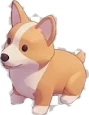
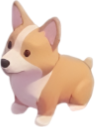
beta: home room uses new transparent asset kit (3 room sizes by rent, wall/floor colours, new furniture sprites)
Claude-Session: https://claude.ai/code/session_015MU3AMTvC7RXatbFz2aXZU

diff --git a/office-beta/js/19p-homedeco.js b/office-beta/js/19p-homedeco.js
@@ -1,94 +1,93 @@
 'use strict';
-/* Office game 1.2.0 (beta) — home room as a decorating game (isometric).
-   Items snap to a half-tile lattice drawn on the room picture. Rules: footprint must be on the floor (wall + floor edge limit it),
-   cannot overlap other items, and its base must touch a wall on at least one side (rug + pets are exempt). Flip = mirror + swap footprint. */
-const HMZ = {
-  room: { o: [212, 119], ca: [14, 8.89], cb: [-14, 6.02], I: 17, J: 15, wi: true, wj: true,
-    cell: (i, j) => (i >= 0 && j >= 0) && ((i < 10 && j < 14) || (i >= 10 && i < 16 && j < 7)), blocked: (i, j) => i >= 11 && i <= 13 && j <= 1 },
-  bath: { o: [463, 140], ca: [13, 6.11], cb: [-13, 6.11], I: 9, J: 11, wi: true, wj: true,
-    cell: (i, j) => i >= 0 && j >= 0 && i < 8 && j < 10 && i >= j, blocked: () => false },
+/* Office game 1.2.0 (beta) — home room as a decorating game (isometric, transparent PNG kit).
+   3 room sizes (by rent). Half-tile... quarter-tile lattice drawn on the room picture. Rules: footprint on the floor, no overlap,
+   base must touch a wall on at least one side (rug + pets exempt). Flip = mirror + swap footprint. Wall / floor colours via blend overlays. */
+const HMR = {"A":{"img":"roomA","w":1347,"h":983,"o":[573,413],"rows":["1111111111111111","1111111111111111","1111111111111111","1111111111111111","111111111111","111111111111","111111111111","111111111111","11111111","11111111","11111111","11111111"],"tile0":12},"B":{"img":"roomB","w":1158,"h":983,"o":[384,413],"rows":["1111111111111111","1111111111111111","1111111111111111","1111111111111111","111111111111","111111111111","111111111111","111111111111"],"tile0":12},"C":{"img":"roomC","w":1107,"h":998,"o":[448,473],"rows":["11111111111111","11111111111111","11111111111111","11111111111111","11111111111111","111111111","111111111","111111111","111111111"],"tile0":9}};
+const HM_C = 47.25, HM_S = 0.577, HM_SCALE = 1.1;
+const HM_NAT = {"deskpc":[223,224],"fridge":[147,244],"bed":[254,225],"washer":[143,189],"counter":[243,212],"ward":[145,226],"sofa":[235,201],"desk":[221,206],"tv":[180,204],"petbed":[252,151],"parrot":[120,160],"corgi":[95,127],"turtle":[173,133],"snake":[166,137],"rabbit":[77,110],"rug":[189,101],"cat":[99,75],"shower":[91,138]};
+const HMI = { // w,d = footprint in quarter-tiles · fn = what "use" does · wall:false = free-standing · flat = lies on floor
+  bed: { n: 'เตียง', w: 3, d: 3, fn: 'sleep', uniq: 1 },
+  fridge: { n: 'ตู้เย็น', w: 2, d: 2, fn: 'fridge', uniq: 1 },
+  counter: { n: 'ครัว/ซิงก์', w: 4, d: 2, fn: 'dishes', uniq: 1 },
+  washer: { n: 'เครื่องซักผ้า', w: 2, d: 2, fn: 'laundry', uniq: 1 },
+  shower: { n: 'ห้องอาบน้ำ', w: 2, d: 2, fn: 'bath', uniq: 1, sw: 150 },
+  deskpc: { n: 'โต๊ะคอม', w: 3, d: 2, fn: 'pc', uniq: 1 },
+  desk: { n: 'โต๊ะ', w: 3, d: 2 },
+  ward: { n: 'ตู้เสื้อผ้า', w: 2, d: 1 },
+  sofa: { n: 'โซฟา', w: 4, d: 2, fn: 'sofa' },
+  tv: { n: 'ทีวี', w: 3, d: 1, fn: 'tv' },
+  petbed: { n: 'ที่นอนสัตว์เลี้ยง', w: 3, d: 3 },
+  rug: { n: 'พรม', w: 3, d: 2, flat: 1, wall: false },
+  corgi: { n: 'หมา', w: 1, d: 1, pet: 'dog', wall: false },
+  cat: { n: 'แมว', w: 1, d: 1, pet: 'cat', wall: false },
+  rabbit: { n: 'กระต่าย', w: 1, d: 1, pet: 'rabbit', wall: false },
+  parrot: { n: 'นกแก้ว', w: 2, d: 1, pet: 'parrot', wall: false },
+  snake: { n: 'งู (ตู้)', w: 2, d: 2, pet: 'snake', wall: false },
+  turtle: { n: 'เต่า (ตู้)', w: 2, d: 2, pet: 'turtle', wall: false },
 };
-const HM_IMG = k => 'img/home/' + k + '.png';
-const HMI = { // w,d = footprint in half-tiles · sw = drawn width px · nh = natural height ratio filled in at runtime
-  bed: { n: 'เตียง', w: 5, d: 3, sw: 118, fn: 'sleep', uniq: 1, nat: [150, 136] },
-  fridge: { n: 'ตู้เย็น', w: 2, d: 2, sw: 60, fn: 'fridge', uniq: 1, nat: [86, 142] },
-  counter: { n: 'ครัว/ซิงก์', w: 6, d: 2, sw: 118, fn: 'dishes', uniq: 1, nat: [153, 138] },
-  washer: { n: 'เครื่องซักผ้า', w: 2, d: 2, sw: 56, fn: 'laundry', uniq: 1, nat: [84, 109] },
-  shower: { n: 'ห้องอาบน้ำ', w: 2, d: 2, sw: 60, fn: 'bath', uniq: 1, nat: [93, 140] },
-  deskpc: { n: 'โต๊ะคอม', w: 6, d: 3, sw: 126, fn: 'pc', uniq: 1, nat: [126, 122] },
-  desk: { n: 'โต๊ะ', w: 6, d: 3, sw: 126, nat: [130, 120] },
-  chair: { n: 'เก้าอี้', w: 2, d: 2, sw: 46, nat: [72, 115] },
-  sofa: { n: 'โซฟา', w: 6, d: 3, sw: 122, fn: 'sofa', nat: [134, 114] },
-  tv: { n: 'ทีวี', w: 4, d: 2, sw: 80, fn: 'tv', nat: [107, 119] },
-  ward1: { n: 'ตู้เสื้อผ้า (สูง)', w: 2, d: 2, sw: 52, nat: [75, 128] },
-  ward2: { n: 'ตู้เสื้อผ้า (บานคู่)', w: 3, d: 2, sw: 68, nat: [87, 128] },
-  ward3: { n: 'ตู้เสื้อผ้า (เปิด)', w: 3, d: 2, sw: 78, nat: [109, 128] },
-  ward4: { n: 'ตู้เสื้อผ้า (ม่วง)', w: 3, d: 2, sw: 70, nat: [92, 128] },
-  ward6: { n: 'ตู้กระจก', w: 4, d: 2, sw: 88, nat: [125, 128] },
-  dresser: { n: 'ตู้ลิ้นชัก', w: 6, d: 2, sw: 108, nat: [132, 127] },
-  petbed: { n: 'ที่นอนสัตว์เลี้ยง', w: 3, d: 3, sw: 84, nat: [147, 89] },
-  cattree: { n: 'คอนแมว', w: 2, d: 2, sw: 60, nat: [128, 120] },
-  cage: { n: 'กรงนก', w: 2, d: 2, sw: 50, nat: [98, 127] },
-  rug: { n: 'พรม', w: 6, d: 4, sw: 124, flat: 1, wall: false, nat: [142, 79] },
-  corgi: { n: 'หมา', w: 2, d: 2, sw: 46, pet: 'dog', wall: false, nat: [91, 117] },
-  cat: { n: 'แมว', w: 2, d: 2, sw: 56, pet: 'cat', wall: false, nat: [125, 93] },
-  rabbit: { n: 'กระต่าย', w: 2, d: 2, sw: 42, pet: 'rabbit', wall: false, nat: [84, 120] },
-  parrot: { n: 'นกแก้ว', w: 2, d: 2, sw: 50, pet: 'parrot', wall: false, nat: [97, 126] },
-  snake: { n: 'งู (ตู้)', w: 4, d: 3, sw: 90, pet: 'snake', wall: false, nat: [145, 117] },
-  turtle: { n: 'เต่า (ตู้)', w: 3, d: 3, sw: 74, pet: 'turtle', wall: false, nat: [129, 98] },
-};
+for (const k in HMI) { const n = HM_NAT[k]; HMI[k].nat = n; HMI[k].sw = HMI[k].sw || Math.round(n[0] * HM_SCALE); }
 const HM_PETKEY = { dog: 'corgi', cat: 'cat', rabbit: 'rabbit', parrot: 'parrot', snake: 'snake', turtle: 'turtle' };
+const HM_WALLC = [null, '#c3d4ff', '#e8a3ff', '#ffbfbf', '#eb9a92', '#ffdb78', '#c1ffb0', '#999999', '#eeeeee'];
+const HM_FLOORC = [null, { c: '#f7c9a6', m: '#ffffff', n: 'พีช' }, { c: '#a5714d', m: '#c0a592', n: 'น้ำตาล' }, { c: '#857a72', m: '#b9b0a8', n: 'เทาเข้ม' }, { c: '#f06a96', m: '#ffffff', n: 'ชมพู' }, { c: '#6fa8d8', m: '#ffffff', n: 'ฟ้า' }, { c: '#9a9a9a', m: '#d5d5d5', n: 'เทา' }, { c: '#ffffff', m: '#ffffff', n: 'ขาว' }];
 HM_PETS.rabbit = { e: '🐇', n: 'กระต่าย', adopt: 900, food: 70 };
 const HM_MAXIT = 26;
-hm.lay = null; hm.sel = null; hm.deco = false; hm.seq = 0; hm.rest = 0; hm.sc = 1;
+hm.lays = null; hm.lay = null; hm.sel = null; hm.deco = false; hm.seq = 0; hm.rest = 0; hm.sc = 1; hm.wc = 0; hm.fc = 0;
 
+const hmKey = () => { const r = (bank.home && bank.home.rent) || 6500; return r < 4000 ? 'C' : r < 8000 ? 'B' : 'A'; };
+const hmRoom = () => HMR[hmKey()];
+const hmCell = (R, i, j) => i >= 0 && j >= 0 && j < R.rows.length && R.rows[j][i] === '1';
 const hmDim = (it, f) => { const d = HMI[it.k]; return f ? [d.d, d.w] : [d.w, d.d]; };
-function hmPt(z, p, q) { const Z = HMZ[z]; return [Z.o[0] + p * Z.ca[0] + q * Z.cb[0], Z.o[1] + p * Z.ca[1] + q * Z.cb[1]]; }
-function hmInv(z, x, y) { const Z = HMZ[z], rx = x - Z.o[0], ry = y - Z.o[1], det = Z.ca[0] * Z.cb[1] - Z.ca[1] * Z.cb[0]; return [(rx * Z.cb[1] - ry * Z.cb[0]) / det, (Z.ca[0] * ry - Z.ca[1] * rx) / det]; }
-function hmOk(k, z, i, j, f, ex) {
-  const Z = HMZ[z], d = HMI[k], [w, dd] = f ? [d.d, d.w] : [d.w, d.d];
-  for (let a = 0; a < w; a++) for (let b = 0; b < dd; b++) if (!Z.cell(i + a, j + b) || Z.blocked(i + a, j + b)) return false;
+function hmPt(p, q) { const R = hmRoom(); return [R.o[0] + (p - q) * HM_C, R.o[1] + (p + q) * HM_C * HM_S]; }
+function hmInv(x, y) { const R = hmRoom(), a = (x - R.o[0]) / HM_C, b = (y - R.o[1]) / (HM_C * HM_S); return [(a + b) / 2, (b - a) / 2]; }
+function hmOk(k, i, j, f, ex) {
+  const R = hmRoom(), d = HMI[k], [w, dd] = f ? [d.d, d.w] : [d.w, d.d];
+  for (let a = 0; a < w; a++) for (let b = 0; b < dd; b++) if (!hmCell(R, i + a, j + b)) return false;
   if (!d.flat) for (const o of hm.lay) {
-    if (o.id === ex || o.z !== z || HMI[o.k].flat) continue; const [ow, od] = hmDim(o, o.f);
+    if (o.id === ex || HMI[o.k].flat) continue; const [ow, od] = hmDim(o, o.f);
     if (i < o.i + ow && o.i < i + w && j < o.j + od && o.j < j + dd) return false;
   }
-  if (d.wall !== false && !((i === 0 && Z.wi) || (j === 0 && Z.wj))) return false;
+  if (d.wall !== false && !(i === 0 || j === 0)) return false;
   return true;
 }
-function hmNearest(k, z0, ti, tj, f, ex) {
-  let best = null;
-  for (const z of z0 === 'room' ? ['room', 'bath'] : ['bath', 'room']) {
-    const Z = HMZ[z];
-    for (let i = 0; i < Z.I; i++) for (let j = 0; j < Z.J; j++) {
-      if (!hmOk(k, z, i, j, f, ex)) continue;
-      const sc = (z === z0 ? (i - ti) ** 2 + (j - tj) ** 2 : 400 + (i - ti) ** 2 + (j - tj) ** 2);
-      if (!best || sc < best.sc) best = { z, i, j, sc };
-    }
+function hmNearest(k, ti, tj, f, ex) {
+  const R = hmRoom(); let best = null;
+  for (let j = 0; j < R.rows.length; j++) for (let i = 0; i < R.rows[0].length; i++) {
+    if (!hmOk(k, i, j, f, ex)) continue; const sc = (i - ti) ** 2 + (j - tj) ** 2; if (!best || sc < best.sc) best = { i, j, sc };
   }
   return best;
 }
-function hmAdd(k, z, i, j, f) { const b = hmNearest(k, z, i, j, f || 0, -1); if (!b) return null; const it = { id: ++hm.seq, k, z: b.z, i: b.i, j: b.j, f: f || 0 }; hm.lay.push(it); return it; }
+function hmAdd(k, i, j, f) { const b = hmNearest(k, i, j, f || 0, -1); if (!b) return null; const it = { id: ++hm.seq, k, i: b.i, j: b.j, f: f || 0 }; hm.lay.push(it); return it; }
 function hmEnsure() {
-  if (!hm.lay) {
-    hm.lay = []; hm.seq = 0;
-    hmAdd('bed', 'room', 0, 0); hmAdd('counter', 'room', 5, 0); hmAdd('fridge', 'room', 14, 0); hmAdd('deskpc', 'room', 0, 3, 1); hmAdd('washer', 'bath', 4, 0); hmAdd('shower', 'bath', 6, 0);
+  const key = hmKey(); if (!hm.lays) hm.lays = {};
+  if (!hm.lays[key]) {
+    hm.lays[key] = []; hm.lay = hm.lays[key]; const t = HMR[key].tile0;
+    hmAdd('bed', 0, 0); hmAdd('deskpc', 0, 3, 1); hmAdd('washer', t, 0); hmAdd('shower', t + 2, 0); hmAdd('fridge', t - 2, 0); hmAdd('counter', t - 6, 0);
   }
-  for (const pk in hm.pets) if (hm.pets[pk].have) { const k = HM_PETKEY[pk]; if (k && !hm.lay.some(o => o.k === k)) hmAdd(k, 'room', 4, 8); }
+  hm.lay = hm.lays[key];
+  for (const pk in hm.pets) if (hm.pets[pk].have) { const k = HM_PETKEY[pk]; if (k && !hm.lay.some(o => o.k === k)) hmAdd(k, 5, 5); }
 }
-const hmAnchor = it => { const [w, d] = hmDim(it, it.f); return hmPt(it.z, it.i + w, it.j + d); };
+const hmAnchor = it => { const [w, d] = hmDim(it, it.f); return hmPt(it.i + w, it.j + d); };
+const hmSpr = (it) => { const d = HMI[it.k], [x, y] = hmAnchor(it), sw = d.sw, sh = sw * d.nat[1] / d.nat[0]; return { x: x - sw / 2, y: y - sh + 3, sw }; };
 
+function hmTint() {
+  const R = hmRoom(), m = n => `-webkit-mask-image:url(img/home/${R.img}_${n}.png);mask-image:url(img/home/${R.img}_${n}.png)`;
+  let h = ''; const wc = HM_WALLC[hm.wc], fc = HM_FLOORC[hm.fc];
+  if (wc) h += `<div class="hmtint" style="${m('wall')};background:${wc};mix-blend-mode:color"></div>`;
+  if (fc) h += `<div class="hmtint" style="${m('floor')};background:${fc.c};mix-blend-mode:color"></div>` + (fc.m !== '#ffffff' ? `<div class="hmtint" style="${m('floor')};background:${fc.m};mix-blend-mode:multiply"></div>` : '');
+  return h;
+}
 function hmSceneHtml() {
-  hmEnsure(); const items = [...hm.lay].sort((a, b) => (HMI[b.k].flat ? 1 : 0) - (HMI[a.k].flat ? 1 : 0) || hmAnchor(a)[1] - hmAnchor(b)[1] + (a.z === 'bath' ? 0 : 0));
+  hmEnsure(); const R = hmRoom(), items = [...hm.lay].sort((a, b) => (HMI[b.k].flat ? 1 : 0) - (HMI[a.k].flat ? 1 : 0) || hmAnchor(a)[1] - hmAnchor(b)[1]);
   const day = hmToday();
-  const els = items.map((it, n) => {
-    const d = HMI[it.k], [x, y] = hmAnchor(it), sw = d.sw, sh = sw * d.nat[1] / d.nat[0];
+  const els = items.map(it => {
+    const d = HMI[it.k], s = hmSpr(it), y = hmAnchor(it)[1];
     const bd = it.k === 'counter' && hm.dirtyD >= 6 ? '<i class="hmbd">🍽</i>' : it.k === 'washer' && hm.dirtyL >= 2 ? '<i class="hmbd">🧺</i>' : (d.pet && hm.pets[d.pet] && hm.pets[d.pet].fed < day ? '<i class="hmbd">💭</i>' : '');
-    return `<div class="hmit${hm.sel === it.id ? ' sel' : ''}${d.flat ? ' flat' : ''}" data-it="${it.id}" style="left:${(x - sw / 2).toFixed(1)}px;top:${(y - sh + 2).toFixed(1)}px;width:${sw}px;z-index:${d.flat ? 1 : 10 + Math.round(y)}"><img src="${HM_IMG(it.k)}" alt="" draggable="false" style="${it.f ? 'transform:scaleX(-1)' : ''}">${bd}</div>`;
+    return `<div class="hmit${hm.sel === it.id ? ' sel' : ''}${d.flat ? ' flat' : ''}" data-it="${it.id}" style="left:${s.x.toFixed(1)}px;top:${s.y.toFixed(1)}px;width:${s.sw}px;z-index:${d.flat ? 1 : 10 + Math.round(y)}"><img src="img/home/${it.k}.png" alt="" draggable="false" style="${it.f ? 'transform:scaleX(-1)' : ''}">${bd}</div>`;
   }).join('');
-  return `<div class="hmscene" id="hmScene"><img class="hmroomimg" src="${HM_IMG('room')}" alt="" draggable="false">${els}</div>`;
+  return `<div class="hmscene" id="hmScene" style="width:${R.w}px;height:${R.h}px"><img class="hmroomimg" src="img/home/${R.img}.png" alt="" draggable="false" style="width:${R.w}px;height:${R.h}px">${hmTint()}${els}</div>`;
 }
 function hmBarHtml() {
-  const it = hm.lay.find(o => o.id === hm.sel); if (!it) return `<p class="soft hmtip">💡 แตะของเพื่อเลือก · ลากเพื่อย้าย (ของจะชิดขอบกำแพง) · กด “🛋 ตกแต่ง” เพื่อเพิ่มเฟอร์นิเจอร์${hm.msg ? `<br><b>${esc(hm.msg)}</b>` : ''}</p>`;
+  const it = hm.lay.find(o => o.id === hm.sel); if (!it) return `<p class="soft hmtip">💡 แตะของเพื่อเลือก · ลากเพื่อย้าย (ของจะชิดขอบกำแพง) · กด “🛋 ตกแต่ง” เพื่อเพิ่มเฟอร์นิเจอร์/เปลี่ยนสี${hm.msg ? `<br><b>${esc(hm.msg)}</b>` : ''}</p>`;
   const d = HMI[it.k], fnl = { sleep: '😴 นอน', fridge: '🧊 เปิดตู้เย็น', dishes: '🍽 ล้างจาน', laundry: '🧺 ซักผ้า', bath: '🚿 อาบน้ำ', pc: '🖥 นั่งคอม', sofa: '🛋 นั่งพัก', tv: '📺 ดูทีวี' }[d.fn] || (d.pet ? '🥣 ให้อาหาร' : '');
   return `<div class="hmbar"><b>${esc(d.n)}</b>${fnl ? `<button class="btn2" data-hm="use">${fnl}</button>` : ''}<button class="btn2 ghost" data-hm="flip">🔄 พลิก</button>${d.pet ? '' : '<button class="btn2 ghost" data-hm="store">📦 เก็บ</button>'}</div>${hm.msg ? `<p class="soft hmtip"><b>${esc(hm.msg)}</b></p>` : ''}`;
 }
@@ -96,21 +95,23 @@ function hmDecoHtml() {
   const have = k => hm.lay.filter(o => o.k === k).length;
   const list = Object.keys(HMI).filter(k => !HMI[k].pet || (hm.pets[HMI[k].pet] && hm.pets[HMI[k].pet].have)).map(k => {
     const d = HMI[k], no = (d.uniq || d.pet) && have(k) >= 1;
-    return `<button class="hmcat${no ? ' off' : ''}" data-hm="add" data-k="${k}"${no ? ' disabled' : ''}><img src="${HM_IMG(k)}" alt=""><small>${esc(d.n)}${no ? ' · วางแล้ว' : ''}</small></button>`;
+    return `<button class="hmcat${no ? ' off' : ''}" data-hm="add" data-k="${k}"${no ? ' disabled' : ''}><img src="img/home/${k}.png" alt=""><small>${esc(d.n)}${no ? ' · วางแล้ว' : ''}</small></button>`;
   }).join('');
-  return `<div class="hmdeco"><div class="hmdt">🛋 เฟอร์นิเจอร์ <small>(${hm.lay.length}/${HM_MAXIT} ชิ้น · แตะเพื่อวางในห้อง)</small></div><div class="hmcats">${list}</div></div>`;
+  const wd = HM_WALLC.map((c, n) => `<button class="hmdot${hm.wc === n ? ' on' : ''}" data-hm="wc" data-n="${n}" style="background:${c || 'repeating-linear-gradient(45deg,#ddd 0 4px,#fff 4px 8px)'}" title="${c ? 'สีผนัง' : 'สีเดิม'}"></button>`).join('');
+  const fd = HM_FLOORC.map((c, n) => `<button class="hmdot${hm.fc === n ? ' on' : ''}" data-hm="fc" data-n="${n}" style="background:${c ? c.c : 'repeating-linear-gradient(45deg,#e9bd94 0 4px,#f4d6b8 4px 8px)'}" title="${c ? c.n : 'พื้นเดิม'}"></button>`).join('');
+  return `<div class="hmdeco"><div class="hmcol"><span>🎨 ผนัง</span>${wd}</div><div class="hmcol"><span>🪵 พื้น</span>${fd}</div><div class="hmdt">🛋 เฟอร์นิเจอร์ <small>(${hm.lay.length}/${HM_MAXIT} ชิ้น · แตะเพื่อวางในห้อง)</small></div><div class="hmcats">${list}</div></div>`;
 }
 hmRoomHtml = function (st, jl) {
-  const home = bank.home; hmEnsure();
+  const home = bank.home; hmEnsure(); const R = hmRoom();
   const conf = hm.ask === 'sleep' ? `<div class="hmask in"><div class="hmbig">😴</div><h3>นอนพักเลยไหม?</h3><p>ข้ามไปเช้า 07:00 ของวันถัดไป · ความเครียดลด 80% (จาก ${st} เหลือ ~${Math.round(st * .2)})</p><p class="soft">ระหว่างข้ามวัน ค่าข้าว/บิลรายวันจะคิดตามปกติ · สัตว์เลี้ยงที่ยังไม่ได้กินจะเครียดนะ</p><div class="hmrow"><button class="btn2" data-hm="sleepok">💤 ยืนยันนอน</button><button class="btn2 ghost" data-hm="x2">ยังไม่นอน</button></div></div>` : '';
   return `<button class="hmx" data-hm="close">✕</button>
   <div class="hmhead"><div><h3>🏠 ${esc(home.name)}</h3><small>ค่าเช่า ${baht(home.rent)} บาท/เดือน · ห่างออฟฟิศ ${home.km} กม.</small></div><div class="hmst" data-lv="${st >= 80 ? 'bad' : st >= 50 ? 'mid' : 'ok'}">${st >= 80 ? '🤯' : st >= 50 ? '😣' : '🙂'} เครียด ${st}</div></div>
-  <div class="hmstage dec" id="hmStage">${hmSceneHtml()}${conf}</div>${hmBarHtml()}${hm.deco ? hmDecoHtml() : ''}
+  <div class="hmstage dec" id="hmStage" style="aspect-ratio:${R.w}/${R.h}">${hmSceneHtml()}${conf}</div>${hmBarHtml()}${hm.deco ? hmDecoHtml() : ''}
   <div class="hmrow"><button class="btn2${hm.deco ? '' : ' ghost'}" data-hm="deco">🛋 ตกแต่ง${hm.deco ? ' (ปิด)' : ''}</button><button class="btn2" data-hm="chores">🧹 ทำงานบ้าน${hm.dirtyD >= 6 || hm.dirtyL >= 2 ? ' ⚠' : ''}</button>${jl ? '' : `<button class="btn2 ghost" data-hm="toWork">🚌 ไปออฟฟิศ (${baht(hmFare())}฿)</button>`}</div>`;
 };
 const _hmRenderDeco = hmRender;
 hmRender = function () { _hmRenderDeco(); try { hmFit(); } catch (e) { console.error(e); } };
-function hmFit() { const st = $('hmStage'), sc = $('hmScene'); if (!st || !sc) return; hm.sc = st.clientWidth / 572; sc.style.transform = `scale(${hm.sc})`; }
+function hmFit() { const st = $('hmStage'), sc = $('hmScene'); if (!st || !sc) return; hm.sc = st.clientWidth / hmRoom().w; sc.style.transform = `scale(${hm.sc})`; }
 window.addEventListener('resize', () => { if (hm.on) hmFit(); });
 
 /* ---------- use ---------- */
@@ -143,10 +144,12 @@ hmClick = function (e) {
     if (b) {
       const a = b.dataset.hm, it = hm.lay && hm.lay.find(o => o.id === hm.sel);
       if (a === 'deco') { hm.deco = !hm.deco; hmRender(); return; }
-      if (a === 'add') { const k = b.dataset.k; if (hm.lay.length >= HM_MAXIT) { hm.msg = 'ห้องเต็มแล้ว เก็บของออกก่อนนะ'; hmRender(); return; } const d = HMI[k], f = hmAdd(k, d.fn === 'bath' || d.fn === 'laundry' ? 'bath' : 'room', 3, 8, 0); if (!f) { hm.msg = 'ไม่มีที่ว่างพอสำหรับชิ้นนี้'; S.toast('ไม่มีที่ว่างพอวางชิ้นนี้', 1.6); hmRender(); return; } hm.sel = f.id; hm.msg = ''; S.tone(600, 800, .05, .05); hmDecoDone(); hmRender(); return; }
+      if (a === 'wc') { hm.wc = +b.dataset.n; hmDecoDone(); hmRender(); return; }
+      if (a === 'fc') { hm.fc = +b.dataset.n; hmDecoDone(); hmRender(); return; }
+      if (a === 'add') { const k = b.dataset.k; if (hm.lay.length >= HM_MAXIT) { hm.msg = 'ห้องเต็มแล้ว เก็บของออกก่อนนะ'; hmRender(); return; } const d = HMI[k], t0 = hmRoom().tile0, f = d.fn === 'bath' || d.fn === 'laundry' ? hmAdd(k, t0, 0, 0) : hmAdd(k, 3, 6, 0); if (!f) { hm.msg = 'ไม่มีที่ว่างพอสำหรับชิ้นนี้'; S.toast('ไม่มีที่ว่างพอวางชิ้นนี้', 1.6); hmRender(); return; } hm.sel = f.id; hm.msg = ''; S.tone(600, 800, .05, .05); hmDecoDone(); hmRender(); return; }
       if (a === 'use' && it) { hmUse(it); return; }
-      if (a === 'flip' && it) { const nf = it.f ? 0 : 1, [w, d] = hmDim(it, nf), bst = hmNearest(it.k, it.z, it.i, it.j, nf, it.id); if (!bst) { hm.msg = 'พลิกไม่ได้ ไม่มีที่ว่างพอ'; hmRender(); return; } it.f = nf; it.z = bst.z; it.i = bst.i; it.j = bst.j; hm.msg = ''; S.tone(500, 700, .04, .05); hmDecoDone(); hmRender(); return; }
-      if (a === 'store' && it) { hm.lay = hm.lay.filter(o => o.id !== it.id); hm.sel = null; hm.msg = `เก็บ${HMI[it.k].n}ใส่กล่องแล้ว (เอากลับมาวางได้จาก “ตกแต่ง”)`; hmRender(); return; }
+      if (a === 'flip' && it) { const nf = it.f ? 0 : 1, bst = hmNearest(it.k, it.i, it.j, nf, it.id); if (!bst) { hm.msg = 'พลิกไม่ได้ ไม่มีที่ว่างพอ'; hmRender(); return; } it.f = nf; it.i = bst.i; it.j = bst.j; hm.msg = ''; S.tone(500, 700, .04, .05); hmDecoDone(); hmRender(); return; }
+      if (a === 'store' && it) { hm.lays[hmKey()] = hm.lay = hm.lay.filter(o => o.id !== it.id); hm.sel = null; hm.msg = `เก็บ${HMI[it.k].n}ใส่กล่องแล้ว (เอากลับมาวางได้จาก “ตกแต่ง”)`; hmRender(); return; }
     } else {
       const el = t.closest('[data-it]');
       if (el) { const id = +el.dataset.it; hm.sel = hm.sel === id ? null : id; hm.msg = ''; hmRender(); return; }
@@ -166,29 +169,27 @@ hmDown = function (e) {
   const mv = ev => {
     if (!g.moved && Math.hypot(ev.clientX - x0, ev.clientY - y0) < 8) return;
     if (!g.moved) { g.moved = true; el.classList.add('drag'); hm.sel = it.id; }
-    const tx = px(ev.clientX) - dx0, ty = py(ev.clientY) - dy0, [w, d] = hmDim(it, it.f);
-    let bz = null, bi = 0, bj = 0, bd = 1e9;
-    for (const z in HMZ) { const [p, q] = hmInv(z, tx, ty), i = p - w, j = q - d, Z = HMZ[z]; const dd = Math.max(0, -i, i - Z.I, -j, j - Z.J); if (dd < bd) { bd = dd; bz = z; bi = i; bj = j; } }
-    const b = hmNearest(it.k, bz, bi, bj, it.f, it.id); if (!b) return; g.best = b;
-    const d0 = HMI[it.k], [X, Y] = hmPt(b.z, b.i + w, b.j + d), sw = d0.sw, sh = sw * d0.nat[1] / d0.nat[0];
-    el.style.left = (X - sw / 2) + 'px'; el.style.top = (Y - sh + 2) + 'px'; el.style.zIndex = 400;
+    const tx = px(ev.clientX) - dx0, ty = py(ev.clientY) - dy0, [w, d] = hmDim(it, it.f), [p, q] = hmInv(tx, ty);
+    const b = hmNearest(it.k, p - w, q - d, it.f, it.id); if (!b) return; g.best = b;
+    const [X, Y] = hmPt(b.i + w, b.j + d), d0 = HMI[it.k], sw = d0.sw, sh = sw * d0.nat[1] / d0.nat[0];
+    el.style.left = (X - sw / 2) + 'px'; el.style.top = (Y - sh + 3) + 'px'; el.style.zIndex = 4000;
   };
   const up = () => {
     document.removeEventListener('pointermove', mv); document.removeEventListener('pointerup', up); document.removeEventListener('pointercancel', up);
-    if (g.moved && g.best) { it.z = g.best.z; it.i = g.best.i; it.j = g.best.j; hm.msg = ''; S.tone(520, 380, .06, .05); hmDecoDone(); }
+    if (g.moved && g.best) { it.i = g.best.i; it.j = g.best.j; hm.msg = ''; S.tone(520, 380, .06, .05); hmDecoDone(); }
     if (g.moved) setTimeout(() => { hm.dg = null; hmRender(); }, 0); else hm.dg = null;
   };
   document.addEventListener('pointermove', mv); document.addEventListener('pointerup', up); document.addEventListener('pointercancel', up);
 };
 
 /* ---------- save ---------- */
-const _snapDeco = snapshot; snapshot = () => { const s = _snapDeco(); if (s.hm) { s.hm.lay = hm.lay; s.hm.seq = hm.seq; s.hm.rest = hm.rest; } return s; };
+const _snapDeco = snapshot; snapshot = () => { const s = _snapDeco(); if (s.hm) { s.hm.lays = hm.lays; s.hm.seq = hm.seq; s.hm.rest = hm.rest; s.hm.wc = hm.wc; s.hm.fc = hm.fc; delete s.hm.lay; } return s; };
 const _loadDeco = loadGame;
 loadGame = function () {
   const ok = _loadDeco();
-  if (ok) { try { const s = JSON.parse(localStorage.getItem(SAVE_KEY) || 'null'); hm.lay = s && s.hm && Array.isArray(s.hm.lay) ? s.hm.lay.filter(o => HMI[o.k]) : null; hm.seq = (s && s.hm && s.hm.seq) || (hm.lay ? hm.lay.reduce((m, o) => Math.max(m, o.id), 0) : 0); hm.rest = (s && s.hm && s.hm.rest) || 0; } catch (e) {} }
+  if (ok) { try { const s = JSON.parse(localStorage.getItem(SAVE_KEY) || 'null'), h = s && s.hm || {}; hm.lays = h.lays || null; hm.lay = null; hm.seq = h.seq || 0; hm.rest = h.rest || 0; hm.wc = h.wc || 0; hm.fc = h.fc || 0; if (hm.lays) for (const k in hm.lays) { hm.lays[k] = hm.lays[k].filter(o => HMI[o.k]); hm.seq = Math.max(hm.seq, ...hm.lays[k].map(o => o.id), 0); } } catch (e) {} }
   return ok;
 };
 
 /* ---------- mission ---------- */
-try { const T = { id: 'n12deco', t: '✨ [ใหม่] ที่ห้องพัก กด “🛋 ตกแต่ง” เพิ่มเฟอร์นิเจอร์ แล้วลาก/พลิกให้ชิดกำแพง' }; if (!NEW_TASKS.some(x => x.id === T.id)) NEW_TASKS.push(T); if (typeof TASKS !== 'undefined' && TASKS.some(x => x.id === 'n12cam') && !TASKS.some(x => x.id === T.id)) { TASKS.push(T); renderTasks(); } } catch (e) {}
+try { const T = { id: 'n12deco', t: '✨ [ใหม่] ที่ห้องพัก กด “🛋 ตกแต่ง” เพิ่มเฟอร์นิเจอร์/เปลี่ยนสี แล้วลาก/พลิกให้ชิดกำแพง' }; if (!NEW_TASKS.some(x => x.id === T.id)) NEW_TASKS.push(T); if (typeof TASKS !== 'undefined' && TASKS.some(x => x.id === 'n12cam') && !TASKS.some(x => x.id === T.id)) { TASKS.push(T); renderTasks(); } } catch (e) {}

diff --git a/office-beta/office.css b/office-beta/office.css
@@ -877,9 +877,9 @@ body[data-career="jl"] [data-sl="boss"]{display:none}
 .fdit{width:auto;height:auto;cursor:grab}.fdit img{display:block;height:74px;width:auto;max-width:130px;object-fit:contain;pointer-events:none}
 .fdit i{position:absolute;left:0;top:-12px;background:#ffe08a;color:#7a4b00;border-radius:8px;font:500 11px var(--font);font-style:normal;padding:1px 7px;white-space:nowrap}
 /* home room decorating (isometric) */
-.hmstage.dec{aspect-ratio:572/312;background:radial-gradient(circle at 50% 40%,#fff7ee,#eadcff);border-color:#cdbdf2}
-.hmscene{position:absolute;left:0;top:6px;width:572px;height:301px;transform-origin:0 0}
-.hmroomimg{position:absolute;left:0;top:0;width:572px;height:301px;pointer-events:none;user-select:none}
+.hmstage.dec{background:radial-gradient(circle at 50% 40%,#fff7ee,#eadcff);border-color:#cdbdf2;overflow:hidden}
+.hmscene{position:absolute;left:0;top:0;transform-origin:0 0;isolation:isolate}
+.hmroomimg{position:absolute;left:0;top:0;pointer-events:none;user-select:none}.hmtint{position:absolute;left:0;top:0;width:100%;height:100%;pointer-events:none;-webkit-mask-size:100% 100%;mask-size:100% 100%}
 .hmit{position:absolute;cursor:grab;touch-action:none;user-select:none}.hmit img{display:block;width:100%;height:auto;pointer-events:none}
 .hmit.flat{cursor:grab}.hmit.sel img{filter:drop-shadow(0 0 2px #8a6df0) drop-shadow(0 0 5px #8a6df0)}.hmit.drag{opacity:.88;cursor:grabbing}
 .hmbd{position:absolute;right:-4px;top:-8px;font-style:normal;font-size:18px;pointer-events:none;filter:drop-shadow(0 1px 2px #0006)}
@@ -888,3 +888,5 @@ body[data-career="jl"] [data-sl="boss"]{display:none}
 .hmcats{display:grid;grid-template-columns:repeat(auto-fill,minmax(86px,1fr));gap:8px;max-height:210px;overflow:auto}
 .hmcat{border:2px solid #eadfcf;background:#fffdf8;border-radius:12px;padding:6px 4px;display:flex;flex-direction:column;align-items:center;gap:3px;cursor:pointer;font-family:inherit}
 .hmcat img{height:54px;width:auto;max-width:76px;object-fit:contain}.hmcat small{font-size:11px;text-align:center;color:#5b4630}.hmcat.off{opacity:.45;cursor:default}
+
+.hmcol{display:flex;align-items:center;gap:6px;flex-wrap:wrap;margin-bottom:8px;font-size:13px}.hmcol span{min-width:62px}.hmdot{width:26px;height:26px;border-radius:50%;border:2px solid #fff;box-shadow:0 0 0 1.5px #d8c9b2;cursor:pointer;padding:0}.hmdot.on{box-shadow:0 0 0 3px #8a6df0}

diff --git a/office-beta/index.html b/office-beta/index.html
@@ -9,7 +9,7 @@ window.__touch=t;window.__setScale=function(k){if(!t)return;var m=document.query
 <meta name="robots" content="noindex">
 <link rel="preconnect" href="https://fonts.googleapis.com">
 <link rel="stylesheet" href="https://fonts.googleapis.com/css2?family=Mitr:wght@400;500;600&family=Mali:wght@400;600&display=swap">
-<link rel="stylesheet" href="office.css?v=b1">
+<link rel="stylesheet" href="office.css?v=b3">
 <link rel="stylesheet" href="../lib/shell.css">
 </head>
 <body>
@@ -86,7 +86,7 @@ window.__shellLib = { setupShell, shellMarkup };
 <script defer src="js/19m-frames.js?v=a3"></script>
 <script defer src="js/19n-tasks.js?v=a3"></script>
 <script defer src="js/19o-foodfree.js?v=a1"></script>
-<script defer src="js/19p-homedeco.js?v=a1"></script>
+<script defer src="js/19p-homedeco.js?v=b2"></script>
 <script defer src="js/17-main.js?v=g6"></script>
 <script src="../lib/home.js"></script>
 <script type="module" src="../lib/stats.js"></script>
